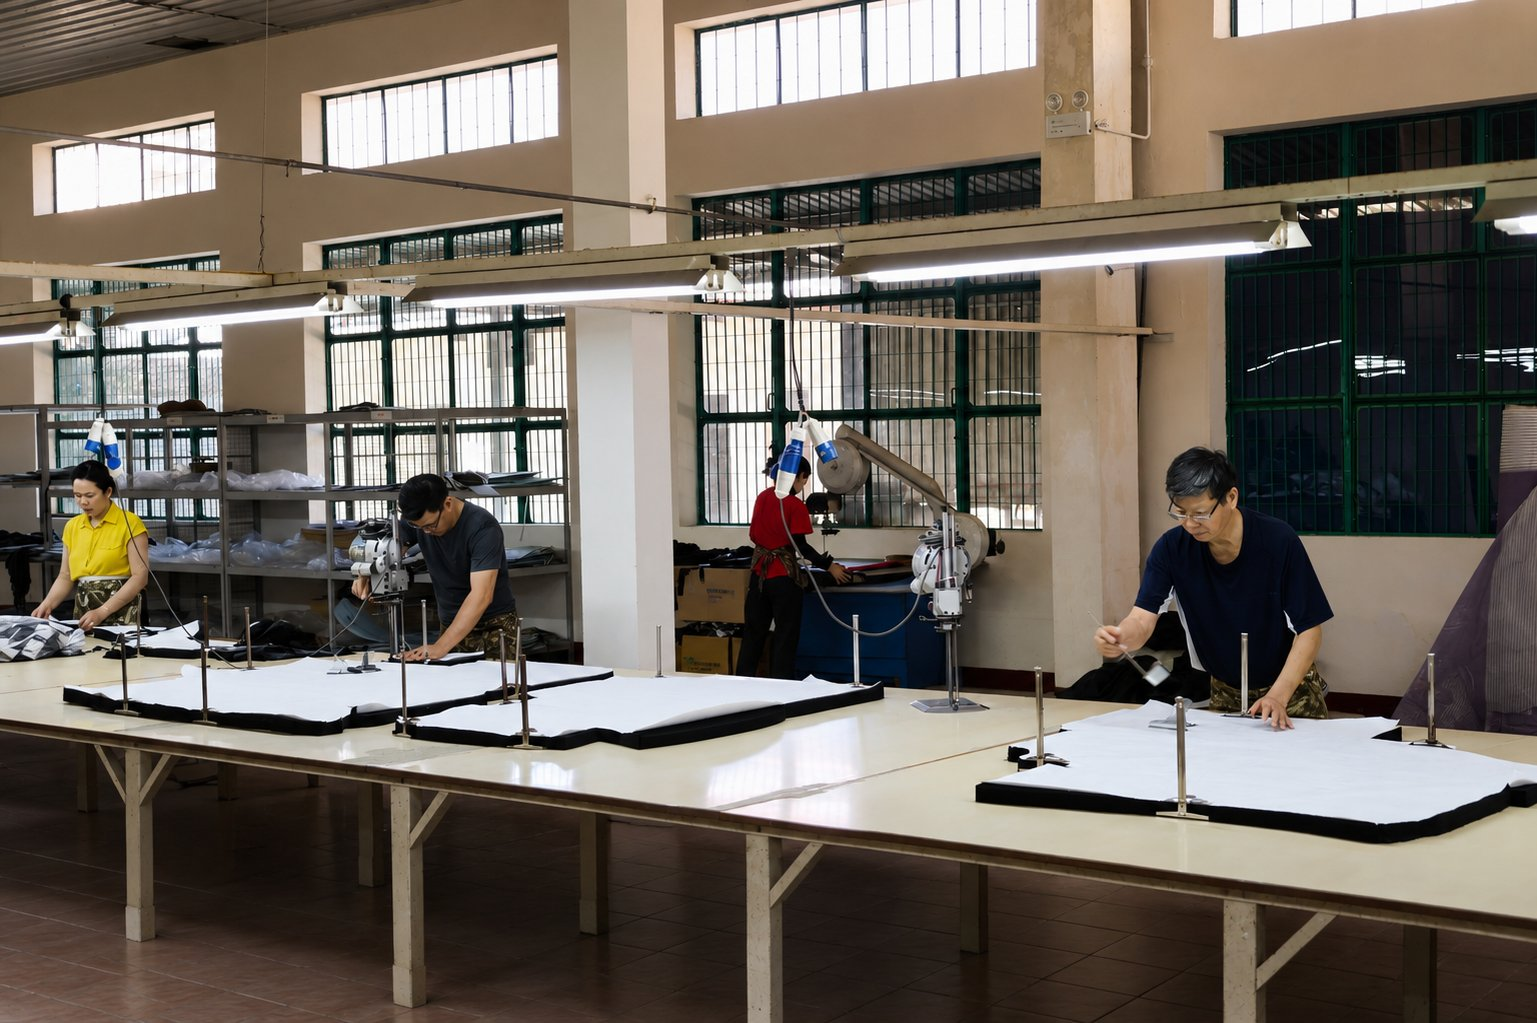
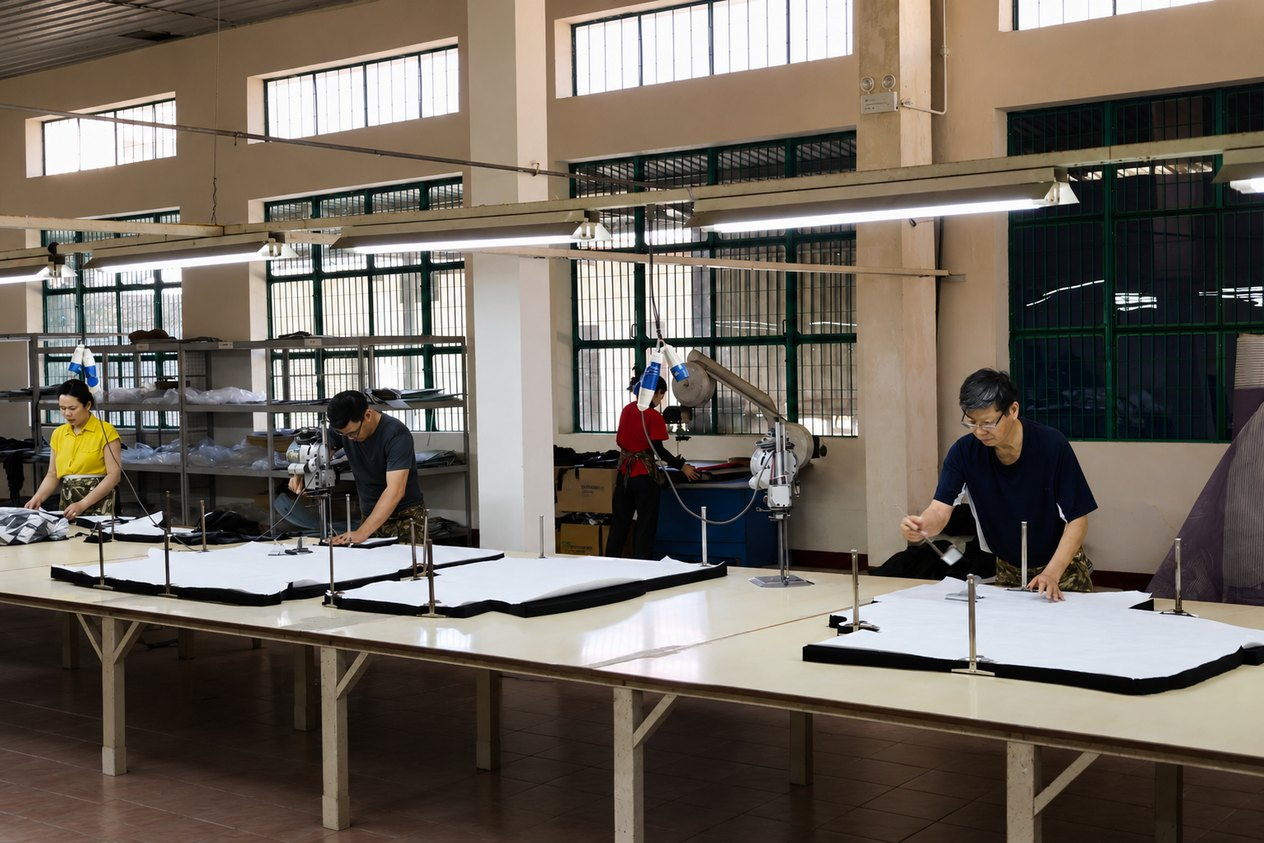
Thay/nâng cấp toàn bộ ảnh web bằng bộ ảnh chỉnh tốt nhất (ChatGPT)

diff --git a/public/index.html b/public/index.html
@@ -105,7 +105,7 @@
         <div class="split">
           <div class="split__media" data-reveal>
             <div class="media-frame">
-              <img src="assets/img/floor.jpg?v=5" alt="Nhà xưởng sản xuất May Đông Thành" width="1600" height="900">
+              <img src="assets/img/floor.jpg?v=6" alt="Nhà xưởng sản xuất May Đông Thành" width="1600" height="900">
               <span class="media-tag" data-en="Quang Ngai facility">Xưởng tại Quảng Ngãi</span>
             </div>
           </div>
@@ -228,14 +228,14 @@
           <p data-en="Real photos from our production floor — tap any image to view it larger.">Hình ảnh thực tế tại xưởng sản xuất — bấm vào ảnh để xem lớn hơn.</p>
         </div>
         <div class="cert-gallery gallery-mosaic" data-reveal>
-          <figure class="cert-thumb"><img src="assets/img/gallery/g1.jpg?v=9" alt="Xưởng may quy mô" loading="lazy"><figcaption data-en="Sewing floor">Xưởng may quy mô</figcaption></figure>
-          <figure class="cert-thumb"><img src="assets/img/gallery/g2.jpg?v=9" alt="Dây chuyền may" loading="lazy"><figcaption data-en="Sewing line">Dây chuyền may</figcaption></figure>
-          <figure class="cert-thumb"><img src="assets/img/gallery/g3.jpg?v=7" alt="Trải và cắt vải" loading="lazy"><figcaption data-en="Fabric cutting">Trải &amp; cắt vải</figcaption></figure>
-          <figure class="cert-thumb"><img src="assets/img/gallery/g4.jpg?v=9" alt="Công đoạn may" loading="lazy"><figcaption data-en="Sewing">Công đoạn may</figcaption></figure>
-          <figure class="cert-thumb"><img src="assets/img/gallery/g5.jpg?v=7" alt="Là ủi hoàn thiện" loading="lazy"><figcaption data-en="Pressing &amp; finishing">Là ủi hoàn thiện</figcaption></figure>
-          <figure class="cert-thumb"><img src="assets/img/gallery/g6.jpg?v=8" alt="Kiểm tra và đóng gói" loading="lazy"><figcaption data-en="Inspection &amp; packing">Kiểm tra &amp; đóng gói</figcaption></figure>
-          <figure class="cert-thumb"><img src="assets/img/gallery/g7.jpg?v=7" alt="Hoàn thiện sản phẩm" loading="lazy"><figcaption data-en="Finishing">Hoàn thiện sản phẩm</figcaption></figure>
-          <figure class="cert-thumb"><img src="assets/img/gallery/g8.jpg?v=8" alt="Nhà ăn - bao cơm trưa" loading="lazy"><figcaption data-en="Canteen — free lunch">Nhà ăn – bao cơm trưa</figcaption></figure>
+          <figure class="cert-thumb"><img src="assets/img/gallery/g1.jpg?v=10" alt="Xưởng may quy mô" loading="lazy"><figcaption data-en="Sewing floor">Xưởng may quy mô</figcaption></figure>
+          <figure class="cert-thumb"><img src="assets/img/gallery/g2.jpg?v=10" alt="Dây chuyền may" loading="lazy"><figcaption data-en="Sewing line">Dây chuyền may</figcaption></figure>
+          <figure class="cert-thumb"><img src="assets/img/gallery/g3.jpg?v=8" alt="Trải và cắt vải" loading="lazy"><figcaption data-en="Fabric cutting">Trải &amp; cắt vải</figcaption></figure>
+          <figure class="cert-thumb"><img src="assets/img/gallery/g4.jpg?v=10" alt="Công đoạn may" loading="lazy"><figcaption data-en="Sewing">Công đoạn may</figcaption></figure>
+          <figure class="cert-thumb"><img src="assets/img/gallery/g5.jpg?v=8" alt="Là ủi hoàn thiện" loading="lazy"><figcaption data-en="Pressing &amp; finishing">Là ủi hoàn thiện</figcaption></figure>
+          <figure class="cert-thumb"><img src="assets/img/gallery/g6.jpg?v=9" alt="Kiểm tra và đóng gói" loading="lazy"><figcaption data-en="Inspection &amp; packing">Kiểm tra &amp; đóng gói</figcaption></figure>
+          <figure class="cert-thumb"><img src="assets/img/gallery/g7.jpg?v=8" alt="Hoàn thiện sản phẩm" loading="lazy"><figcaption data-en="Finishing">Hoàn thiện sản phẩm</figcaption></figure>
+          <figure class="cert-thumb"><img src="assets/img/gallery/g8.jpg?v=9" alt="Nhà ăn - bao cơm trưa" loading="lazy"><figcaption data-en="Canteen — free lunch">Nhà ăn – bao cơm trưa</figcaption></figure>
         </div>
       </div>
     </section>

diff --git a/public/profile.html b/public/profile.html
@@ -30,9 +30,9 @@
 
   <main id="main">
     <!-- Ảnh banner chỉ hiển thị khi In/Lưu PDF (ảnh nền cover không in được) -->
-    <img class="print-banner" src="assets/img/covers/profile.jpg?v=4" alt="Nhà máy May Đông Thành (DOTHEGAMEX)">
+    <img class="print-banner" src="assets/img/covers/profile.jpg?v=5" alt="Nhà máy May Đông Thành (DOTHEGAMEX)">
     <!-- ========================= COVER ============================= -->
-    <section class="page-hero page-hero--photo" style="background-image:url('assets/img/covers/profile.jpg?v=4')">
+    <section class="page-hero page-hero--photo" style="background-image:url('assets/img/covers/profile.jpg?v=5')">
       <div class="container">
         <nav class="breadcrumb" aria-label="Breadcrumb">
           <a href="index.html" data-en="Home">Trang chủ</a>
@@ -99,12 +99,12 @@
           <h2 data-en="Inside our facility">Bên trong nhà xưởng</h2>
         </div>
         <div class="cert-gallery cert-gallery--facility" data-reveal>
-          <figure class="cert-thumb"><img src="assets/img/gallery/g11.jpg?v=3" alt="Nhà xưởng sản xuất May Đông Thành" loading="lazy"><figcaption data-en="Production floor">Nhà xưởng sản xuất</figcaption></figure>
+          <figure class="cert-thumb"><img src="assets/img/gallery/g11.jpg?v=4" alt="Nhà xưởng sản xuất May Đông Thành" loading="lazy"><figcaption data-en="Production floor">Nhà xưởng sản xuất</figcaption></figure>
           <figure class="cert-thumb"><img src="assets/img/gallery/g9.jpg" alt="Nguyên liệu vải tại May Đông Thành" loading="lazy"><figcaption data-en="Fabric material">Nguyên liệu vải</figcaption></figure>
-          <figure class="cert-thumb"><img src="assets/img/gallery/g3b.jpg?v=2" alt="Trải và cắt vải tại May Đông Thành" loading="lazy"><figcaption data-en="Cutting">Trải &amp; cắt vải</figcaption></figure>
+          <figure class="cert-thumb"><img src="assets/img/gallery/g3b.jpg?v=3" alt="Trải và cắt vải tại May Đông Thành" loading="lazy"><figcaption data-en="Cutting">Trải &amp; cắt vải</figcaption></figure>
           <figure class="cert-thumb"><img src="assets/img/gallery/g10.jpg" alt="Bó bán thành phẩm tại May Đông Thành" loading="lazy"><figcaption data-en="Bundled cut parts">Bó bán thành phẩm</figcaption></figure>
-          <figure class="cert-thumb"><img src="assets/img/gallery/g4b.jpg?v=3" alt="Chuyền may tại May Đông Thành" loading="lazy"><figcaption data-en="Sewing line">Chuyền may</figcaption></figure>
-          <figure class="cert-thumb"><img src="assets/img/gallery/g12.jpg" alt="Kiểm tra chất lượng sản phẩm" loading="lazy"><figcaption data-en="Quality inspection">Kiểm tra chất lượng</figcaption></figure>
+          <figure class="cert-thumb"><img src="assets/img/gallery/g4b.jpg?v=4" alt="Chuyền may tại May Đông Thành" loading="lazy"><figcaption data-en="Sewing line">Chuyền may</figcaption></figure>
+          <figure class="cert-thumb"><img src="assets/img/gallery/g12.jpg?v=2" alt="Kiểm tra chất lượng sản phẩm" loading="lazy"><figcaption data-en="Quality inspection">Kiểm tra chất lượng</figcaption></figure>
         </div>
       </div>
     </section>

diff --git a/public/capabilities.html b/public/capabilities.html
@@ -30,7 +30,7 @@
 
   <main id="main">
     <!-- ========================= PAGE HERO ========================= -->
-    <section class="page-hero page-hero--photo" style="background-image:url('assets/img/covers/capabilities.jpg?v=2')">
+    <section class="page-hero page-hero--photo" style="background-image:url('assets/img/covers/capabilities.jpg?v=3')">
       <div class="container">
         <nav class="breadcrumb" aria-label="Breadcrumb">
           <a href="index.html" data-en="Home">Trang chủ</a>

diff --git a/public/careers.html b/public/careers.html
@@ -30,7 +30,7 @@
 
   <main id="main">
     <!-- ========================= PAGE HERO ========================= -->
-    <section class="page-hero page-hero--photo" style="background-image:url('assets/img/covers/careers.jpg?v=2')">
+    <section class="page-hero page-hero--photo" style="background-image:url('assets/img/covers/careers.jpg?v=3')">
       <div class="container">
         <nav class="breadcrumb" aria-label="Breadcrumb">
           <a href="index.html" data-en="Home">Trang chủ</a>

diff --git a/public/contact.html b/public/contact.html
@@ -30,7 +30,7 @@
 
   <main id="main">
     <!-- ========================= PAGE HERO ========================= -->
-    <section class="page-hero page-hero--photo" style="background-image:url('assets/img/covers/contact.jpg?v=2')">
+    <section class="page-hero page-hero--photo" style="background-image:url('assets/img/covers/contact.jpg?v=3')">
       <div class="container">
         <nav class="breadcrumb" aria-label="Breadcrumb">
           <a href="index.html" data-en="Home">Trang chủ</a>

diff --git a/public/about.html b/public/about.html
@@ -30,7 +30,7 @@
 
   <main id="main">
     <!-- ========================= PAGE HERO ========================= -->
-    <section class="page-hero page-hero--photo" style="background-image:url('assets/img/covers/about.jpg?v=3')">
+    <section class="page-hero page-hero--photo" style="background-image:url('assets/img/covers/about.jpg?v=4')">
       <div class="container">
         <nav class="breadcrumb" aria-label="Breadcrumb">
           <a href="index.html" data-en="Home">Trang chủ</a>
